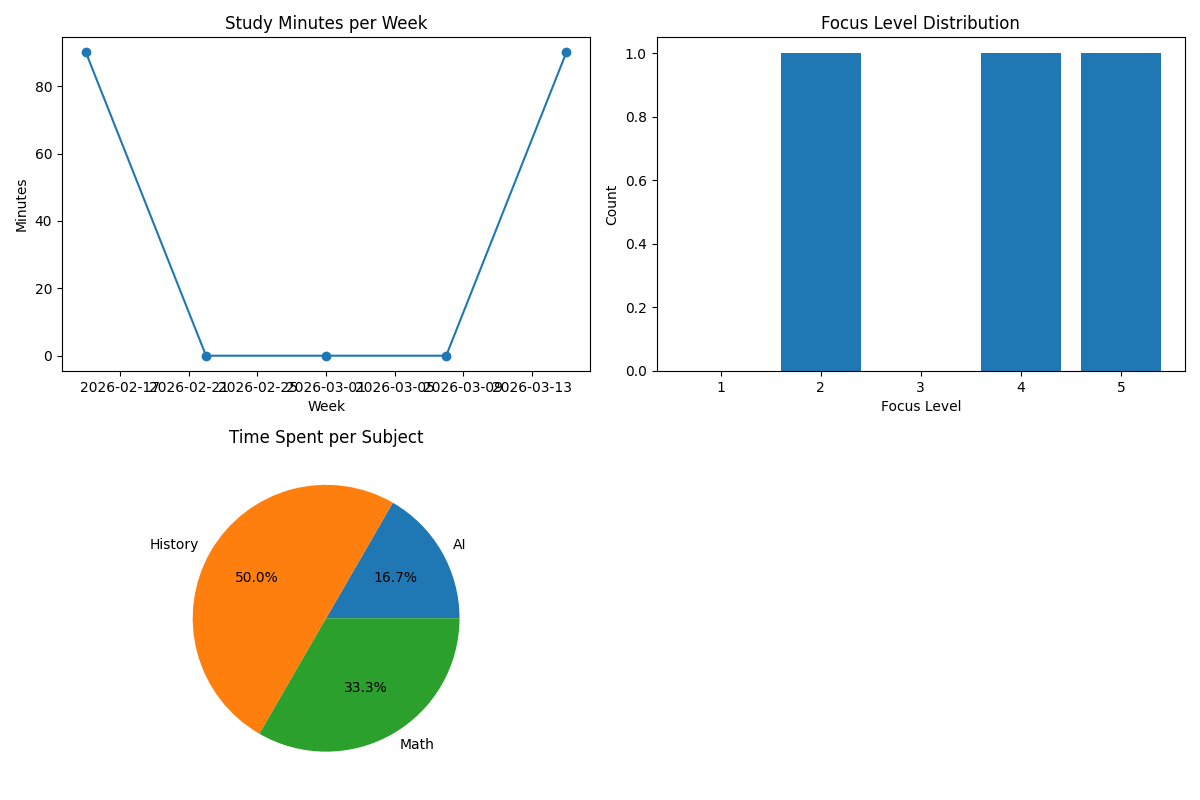
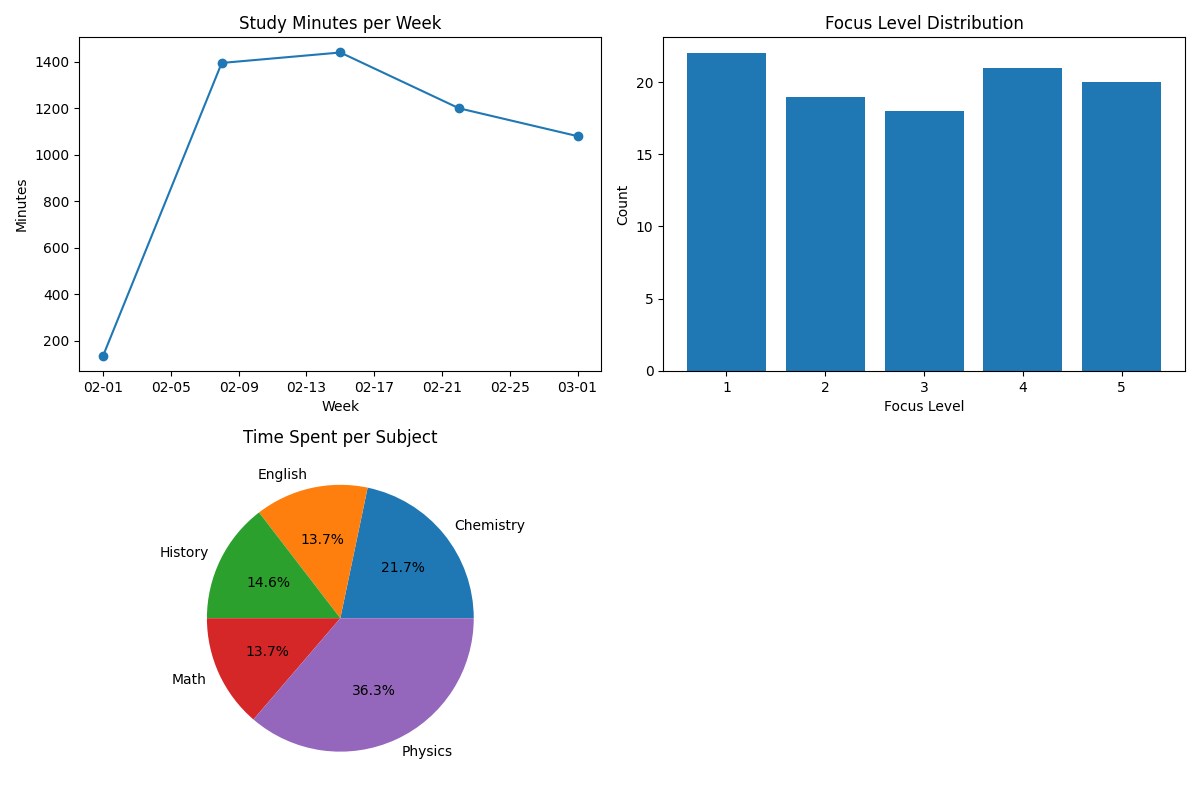
feat: update database queries for subjects and learning sessions, add random test data generation script

diff --git a/src/random_test_data.py b/src/random_test_data.py
@@ -1,0 +1,31 @@
+import random
+from src.db.database import DatabaseManager
+from src.models.session import SessionRecord
+
+db = DatabaseManager()
+db.migrate()
+conn = db._connect()
+cur = conn.cursor()
+
+cur.execute("DELETE FROM learning_sessions")
+cur.execute("DELETE FROM subjects")
+
+cur.execute("DELETE FROM sqlite_sequence WHERE name='subjects'")
+cur.execute("DELETE FROM sqlite_sequence WHERE name='learning_sessions'")
+
+conn.commit()
+conn.close()
+subjects = ["Math","History","Physics","Chemistry","English"]
+for name in subjects:
+    db.add_subject(name)
+
+for i in range(100):
+    s = SessionRecord(
+        subject_id=random.randint(1,5),
+        date=f"2026-02-{random.randint(1,28):02d}",
+        start_time=f"{random.randint(6,22):02d}:{random.choice([0,30]):02d}",
+        duration_minutes=random.choice([30,45,60,90]),
+        focus_level=random.randint(1,5),
+        test_score=random.randint(50,100)
+    )
+    db.add_session(s)

diff --git a/src/db/database.py b/src/db/database.py
@@ -75,7 +75,7 @@ class DatabaseManager:
         conn = self._connect()
         try:
             cur = conn.cursor()
-            cur.execute("SELECT * FROM subjects ORDER BY name")
+            cur.execute("SELECT * FROM subjects ORDER BY id")
             rows = cur.fetchall()
             return [Subject(id=row["id"], name=row["name"]) for row in rows]
         finally:
@@ -169,7 +169,7 @@ class DatabaseManager:
             cur = conn.cursor()
             cur.execute(
                 """
-                SELECT * FROM learning_sessions ORDER BY start_timestamp DESC LIMIT ?
+                SELECT * FROM learning_sessions ORDER BY id LIMIT ?
                 """, (limit,))
             rows = cur.fetchall()
             return [SessionRecord.from_row(row) for row in rows]

diff --git a/src/visualization.py b/src/visualization.py
@@ -1,4 +1,5 @@
 import matplotlib.pyplot as plt
+import matplotlib.dates as mdates
 
 
 def plot_sessions_over_time(df, ax=None):
@@ -15,6 +16,7 @@ def plot_sessions_over_time(df, ax=None):
     ax.set_title('Study Minutes per Week')
     ax.set_xlabel('Week')
     ax.set_ylabel('Minutes')
+    ax.xaxis.set_major_formatter(mdates.DateFormatter('%m-%d'))
     fig.tight_layout()
     return fig
 
